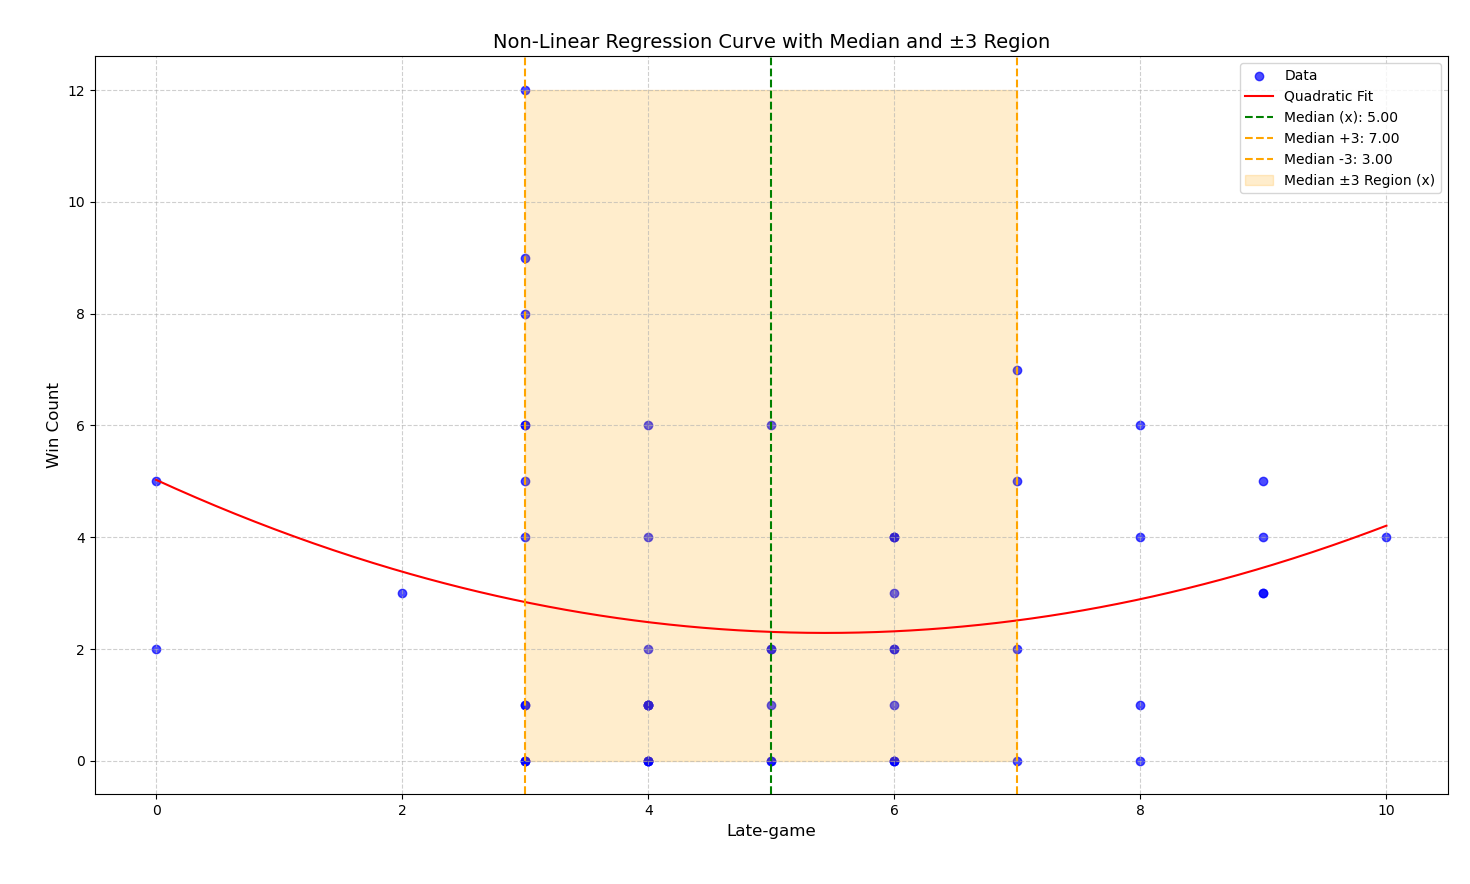
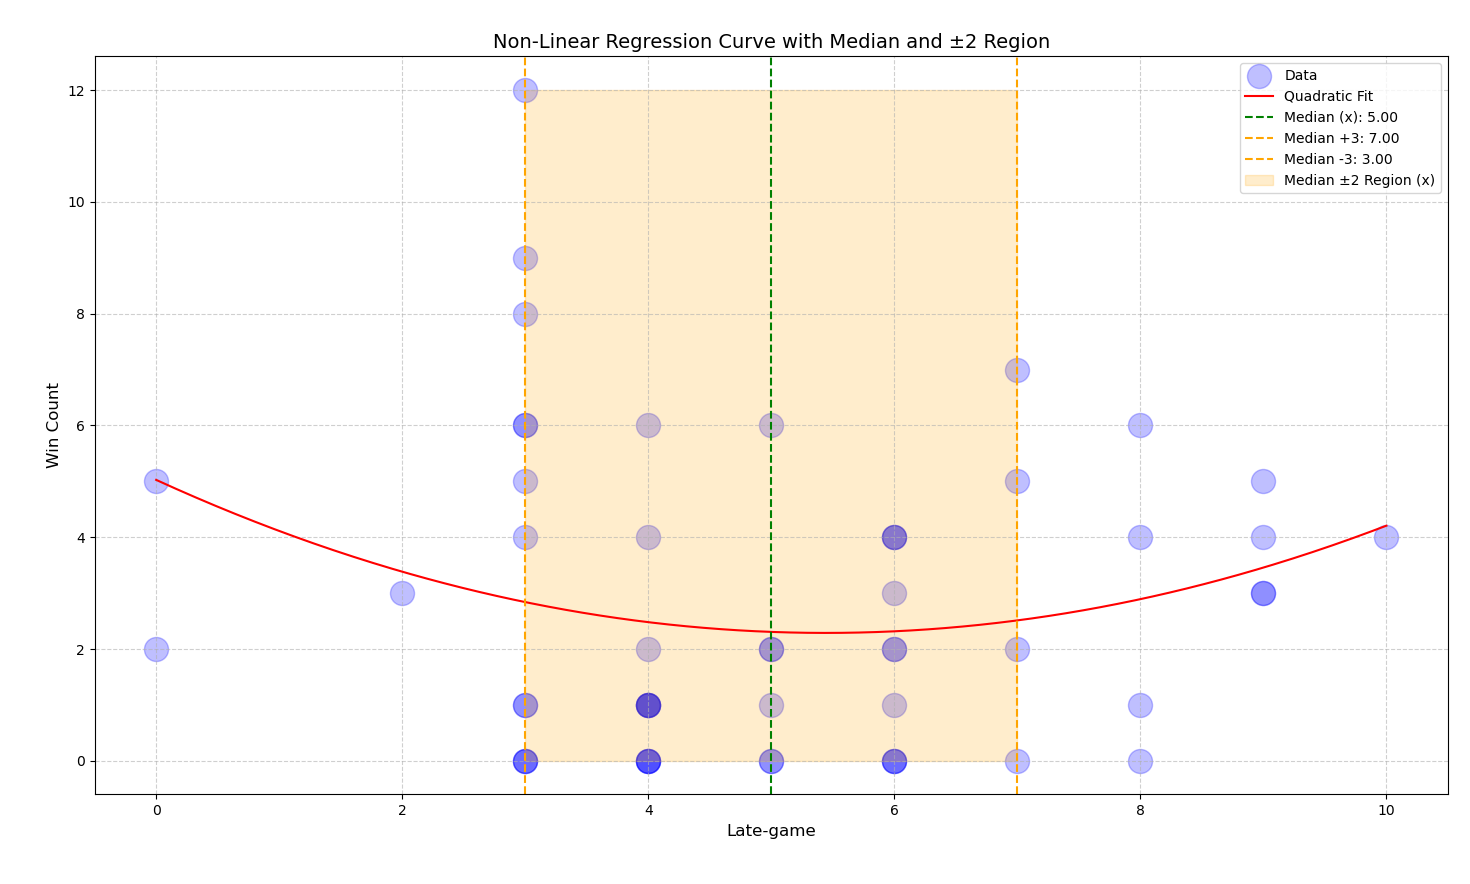
styling update

diff --git a/hearthstone/finding3.html b/hearthstone/finding3.html
@@ -19,9 +19,11 @@
             <p>Even though commonly accepted archetypes exist,
                 one might construct their own strategy.
                 The aim of this section is to develop an off-meta solution: a custom archetype.</p>
-
-                <p><strong>Null Hypothesis:</strong> The custom archetype does not significantly impacts win count.</p>
-                <p><strong>Alternative Hypothesis:</strong> The custom archetype significantly impact win count.</p>             
+            <ul>
+                <li><strong>Null Hypothesis:</strong> The custom archetype does not significantly impacts win count.</li>
+                <li><strong>Alternative Hypothesis:</strong> The custom archetype significantly impact win count.</li>    
+            </ul>
+         
         </div>
         <div class="container">
             <h2>Custom Archetype</h2>
@@ -37,18 +39,25 @@
 
             <h3>Thresholds</h3>
 
-            <p>Thresholds were set based on the correlations of the attributes.</p>
+            <p>Thresholds were set based on the correlations of the attributes.
             The top 3 highest attributes were selected from the distance correlation: S = [Late-game, Early Removals, 5-Drops].
-            For elements with at least low Pearson or Spearman correlation, the threshold was set to the Median. For others, the threshold was defined as the Median ±3 (lower and upper bounds).
+            For elements with at least low Pearson or Spearman correlation, the threshold was set to the Median. For others, the threshold was defined as the Median ±2 (lower and upper bounds).
+            </p>
+            <p><strong>Custom archetype attributes:</strong></p>
+            <ul>
+                <li>3 < Late-game < 7</li>
+                <li>3 < Early Removals < 7</li>
+                <li>1 < 5-Drops < 5</li>
+            </ul>
 
             <img src="images/F3_4.png" alt="Graphic 1">
-            <div class="image-caption">Non-Linear Regression Curve with Median and ±3 Region (Late-game).</div>
+            <div class="image-caption">Non-Linear Regression Curve with Median and ±2 Region (Late-game).</div>
 
             <img src="images/F3_5.png" alt="Graphic 1">
-            <div class="image-caption">Non-Linear Regression Curve with Median and ±3 Region (Early Removals).</div>
+            <div class="image-caption">Non-Linear Regression Curve with Median and ±2 Region (Early Removals).</div>
 
             <img src="images/F3_6.png" alt="Graphic 1">
-            <div class="image-caption">Non-Linear Regression Curve with Median and ±3 Region (5-Drops).</div>
+            <div class="image-caption">Non-Linear Regression Curve with Median and ±2 Region (5-Drops).</div>
             
         </div>
         <div class="container">

diff --git a/hearthstone/finding1.html b/hearthstone/finding1.html
@@ -19,8 +19,10 @@
             <p>In Hearthstone, many players believe they perform better with their favorite classes. I was one of them.  
                 This makes sense because, besides being familiar with the cards, the class you pick directly affects the card pool and hero power.
                 In order to test my belief, I formulated the following null hypothesis:</p>
-                <p><strong>Null Hypothesis:</strong> There is no significant difference in the mean win rates among the classes.</p>
-                <p><strong>Alternative Hypothesis:</strong> There is a significant difference in the mean win rates among the classes.</p>
+                <ul>
+                <li><strong>Null Hypothesis:</strong> There is no significant difference in the mean win rates among the classes.</li>
+                <li><strong>Alternative Hypothesis:</strong> There is a significant difference in the mean win rates among the classes.</li>
+                </ul>
                 <p>I decided to run an ANOVA test since I am examining whether there is a significant difference between the dependent groups in terms of their mean win rates.</p>                
         </div>
         <div class="container">
